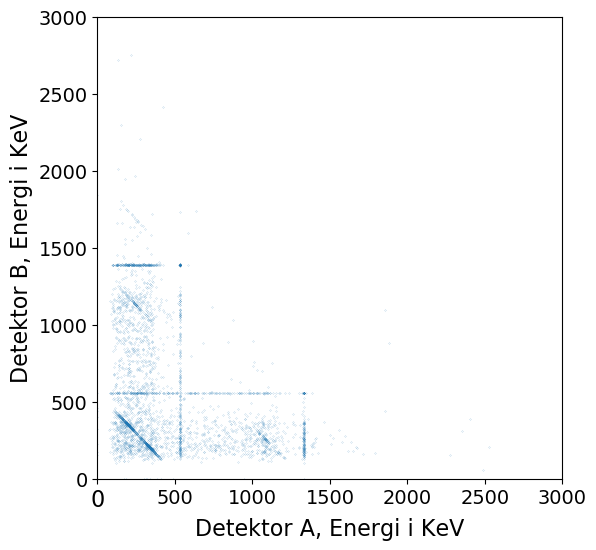
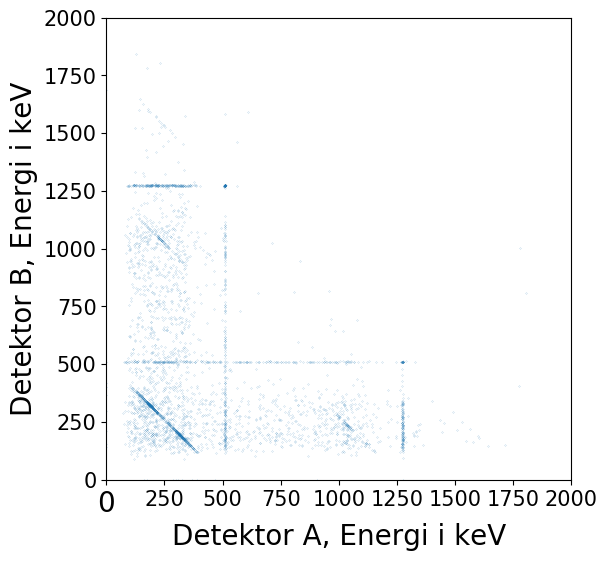
fixed scaling

diff --git a/data_analyzer.py b/data_analyzer.py
@@ -3,6 +3,7 @@ import numpy as np
 import scipy as sp
 import scipy.signal
 import matplotlib
+import collections
 import matplotlib.pyplot as plt
 
 
@@ -15,7 +16,7 @@ def parse_file_to_dict(file, labelkeys=None):
         for line in f:
             vals = line.split()
             for i, val in enumerate(vals):
-                d[labelkeys[i]].append(float(val))  # np append is much slower
+                d[labelkeys[i]].append(int(val))  # np append is much slower
             line_nbr += 1
         for key in d:
             d[key] = np.array(d[key])
@@ -24,21 +25,29 @@ def parse_file_to_dict(file, labelkeys=None):
 
 # specify file name
 compare_coin = False
-filename = "na22_coinc_90"
+filename = "th_coinc"
 # parse .txt-file to dict
 data = parse_file_to_dict(filename, ["E1", "E2", "T"])
 # Calibrate channel - calibration data from lab
 # ******* Det 1
 # Peak 1
-cal1_chan1 = 3160
+cal1_chan1 = 3300
 cal1_peak1 = 1173.237
 # Peak 2
-cal1_chan2 = 3590
+cal1_chan2 = 3750
 cal1_peak2 = 1332.501
 # calibration values
+# m1 = (cal1_peak2-cal1_peak1)/(1-cal1_chan2/cal1_chan1)
+# k1 = (cal1_peak1-m1)/cal1_chan1
+# print(m1)
+# print(k1)
 cal1_1val = cal1_peak1/cal1_chan1  # energy per channel number
 cal1_2val = cal1_peak2/cal1_chan2
 cal1 = (cal1_1val + cal1_2val)/2  # take the mean
+# counts = np.bincount(data["E1"])
+# print(np.argsort(counts))
+# print(collections.Counter(data["E1"]))
+
 # calibrate channel E1
 data["E1"] = data["E1"]*cal1
 
@@ -46,10 +55,10 @@ data["E1"] = data["E1"]*cal1
 
 # ******* Det 2
 # Peak 1
-cal2_chan1 = 3025
+cal2_chan1 = 3300
 cal2_peak1 = 1173.237
 # Peak 2
-cal2_chan2 = 3435
+cal2_chan2 = 3750
 cal2_peak2 = 1332.501
 # calibration values
 cal2_1val = cal2_peak1/cal2_chan1  # energy per channel number
@@ -61,15 +70,17 @@ data["E2"] = data["E2"]*cal2
 
 # Declare subplots
 if compare_coin:
-    fig, axs = plt.subplots(1, 2, sharey=True, figsize=(10, 6))  # Lower resolution later - this is very high
-    axs[0].set_ylim(0,500)
+    fig, axs = plt.subplots(1, 2, sharey=True, figsize=(11.5, 6))  # Lower resolution later - this is very high
+    #axs[0].set_xlim(0, 2500)
+    axs[0].set_ylim(0, 500)
     axs[0].set_ylabel("Antal")
+    #axs[1].set_xlim(0, 2500)
     axs[1].set_ylim(0,500)
     # *************** No coincidence
     # ******* Plot E1
     binsE1_nc = len(np.unique(data["E1"]))  # bins with no coincidence
     axs[0].hist(data["E1"], binsE1_nc, log=False)
-    axs[0].set_xlabel("Energi, i KeV \n Utan koincidens")
+    axs[0].set_xlabel("Energi, i keV \n Utan koincidens")
     # ******* Plot E2
     # binsE2_nc = len(np.unique(data["E2"]))
     # axs[0,1].hist(data["E2"], binsE2_nc)
@@ -89,7 +100,7 @@ if compare_coin:
     # ******* Plot E1
     binsE1_wc = len(np.unique(coin_data["E1"]))
     axs[1].hist(coin_data["E1"], binsE1_wc, log=False)
-    axs[1].set_xlabel("Energi, i KeV \n Med koincidens")
+    axs[1].set_xlabel("Energi, i keV \n Med koincidens")
     # ******* Plot E2
     # binsE2_wc = len(np.unique(coin_data["E2"]))
     # axs[1, 1].hist(coin_data["E2"], binsE2_wc)
@@ -101,12 +112,11 @@ if compare_coin:
         for idx, item in enumerate(([axs[i].title, axs[i].xaxis.label, axs[i].yaxis.label] +
                      axs[i].get_xticklabels() + axs[i].get_yticklabels())):
             if idx < 4:
-                item.set_fontsize(16)
+                item.set_fontsize(20)
             else:
-                item.set_fontsize(14)
+                item.set_fontsize(15)
 else:
     fig, axs = plt.subplots(1,1,figsize=(6, 6))
-    axs.set_ylim(0, 500)
     axs.set_ylabel("Antal")
     axs.set_ylim(0, 500)
     # # *************** With coincidence
@@ -122,14 +132,14 @@ else:
     # ******* Plot E1
     binsE1_wc = len(np.unique(coin_data["E1"]))
     axs.hist(coin_data["E1"], binsE1_wc, log=False)
-    axs.set_xlabel("Energi, i KeV \n Med koincidens")
+    axs.set_xlabel("Energi, i keV \n Med koincidens")
 
     for idx, item in enumerate(([axs.title, axs.xaxis.label, axs.yaxis.label] +
                                 axs.get_xticklabels() + axs.get_yticklabels())):
         if idx < 4:
-            item.set_fontsize(16)
+            item.set_fontsize(20)
         else:
-            item.set_fontsize(14)
+            item.set_fontsize(15)
 
 plt.savefig(filename+"_hist.png", format="png", bbox_inches='tight')
 plt.show()
@@ -137,13 +147,15 @@ plt.show()
 # Plot coincidence spectrum
 # Declare subplots
 if compare_coin:
-    fig, axs = plt.subplots(1, 2, sharey=True, figsize=(10, 6))  # Lower resolution later - this is very high
+    fig, axs = plt.subplots(1, 2, sharey=True, figsize=(11.5, 6))  # Lower resolution later - this is very high
     axs[0].set_ylabel("Antal")
     # *************** No coincidence
     # ******* Plot E1
     axs[0].scatter(data["E1"], data["E2"], s=0.001)
-    axs[0].set_xlabel("Detektor A, Energi i KeV \n Utan koincidens")
-    axs[0].set_ylabel("Detektor B, Energi i KeV")
+    axs[0].set_ylim(0, 2500)
+    axs[0].set_xlim(0, 2500)
+    axs[0].set_xlabel("Detektor A, Energi i keV \n Utan koincidens")
+    axs[0].set_ylabel("Detektor B, Energi i keV")
 
     # # *************** With coincidence
     # First apply coincidence - loop through data and remove points where T \neq 0
@@ -157,15 +169,17 @@ if compare_coin:
 
     # ******* Plot E1
     axs[1].scatter(coin_data["E1"], coin_data["E2"], s=0.001)
-    axs[1].set_xlabel("Detektor A, Energi i KeV \n Med koincidens")
-    axs[1].set_ylabel("Detektor B, Energi i KeV")
+    axs[1].set_ylim(0, 2500)
+    axs[1].set_xlim(0, 2500)
+    axs[1].set_xlabel("Detektor A, Energi i keV \n Med koincidens")
+    axs[1].set_ylabel("Detektor B, Energi i keV")
 
     # Increase font size etc.
     for i in range(len(axs)):
         for idx, item in enumerate(([axs[i].title, axs[i].xaxis.label, axs[i].yaxis.label] +
                      axs[i].get_xticklabels() + axs[i].get_yticklabels())):
             if idx < 4:
-                item.set_fontsize(16)
+                item.set_fontsize(20)
             else:
                 item.set_fontsize(14)
 else:
@@ -184,15 +198,15 @@ else:
 
     # ******* Plot E1
     axs.scatter(coin_data["E1"], coin_data["E2"], s=0.01)
-    axs.set_ylim(0,3000)
-    axs.set_xlim(0,3000)
-    axs.set_xlabel("Detektor A, Energi i KeV")
-    axs.set_ylabel("Detektor B, Energi i KeV")
+    axs.set_ylim(0, 2000)
+    axs.set_xlim(0, 2000)
+    axs.set_xlabel("Detektor A, Energi i keV")
+    axs.set_ylabel("Detektor B, Energi i keV")
 
     for idx, item in enumerate(([axs.title, axs.xaxis.label, axs.yaxis.label] +
                                 axs.get_xticklabels() + axs.get_yticklabels())):
         if idx < 4:
-            item.set_fontsize(16)
+            item.set_fontsize(20)
         else:
             item.set_fontsize(14)
 plt.savefig(filename+"_coin.png", format="png", bbox_inches='tight')
